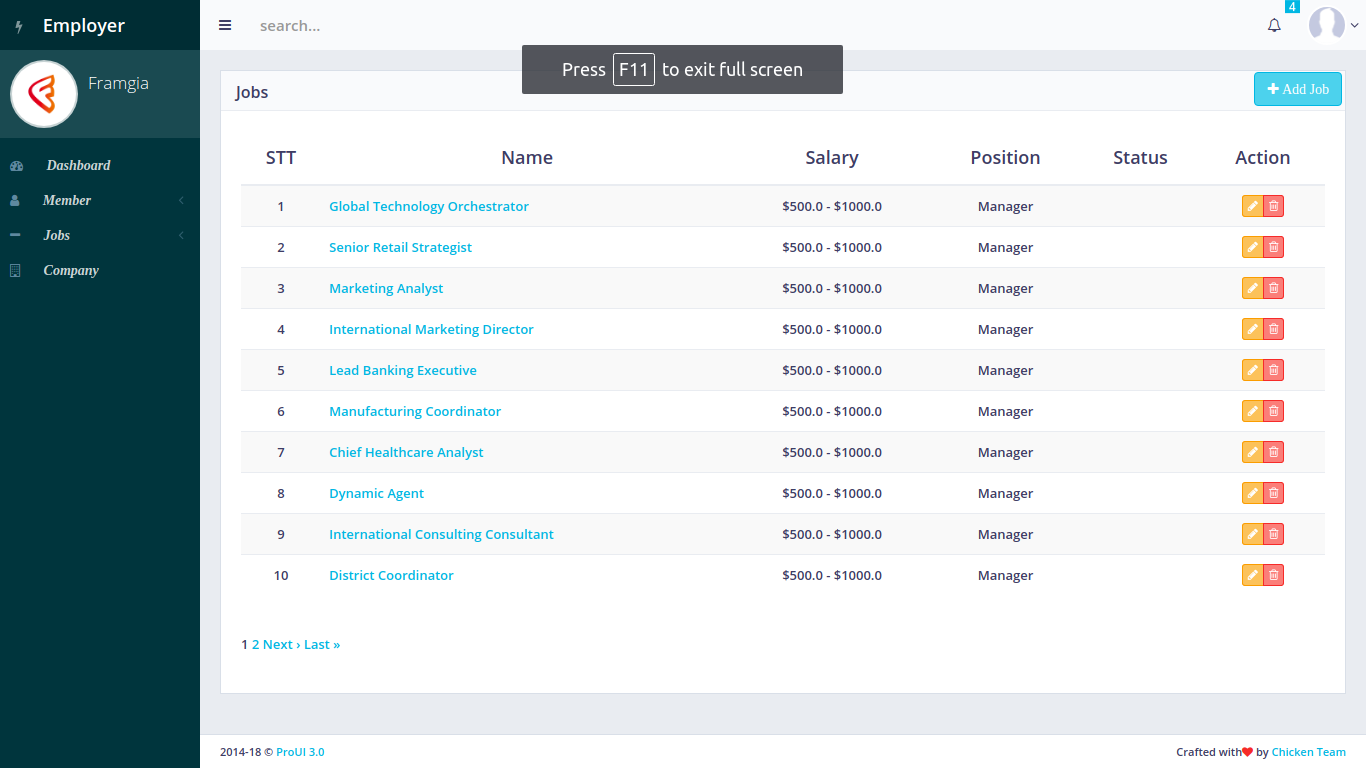
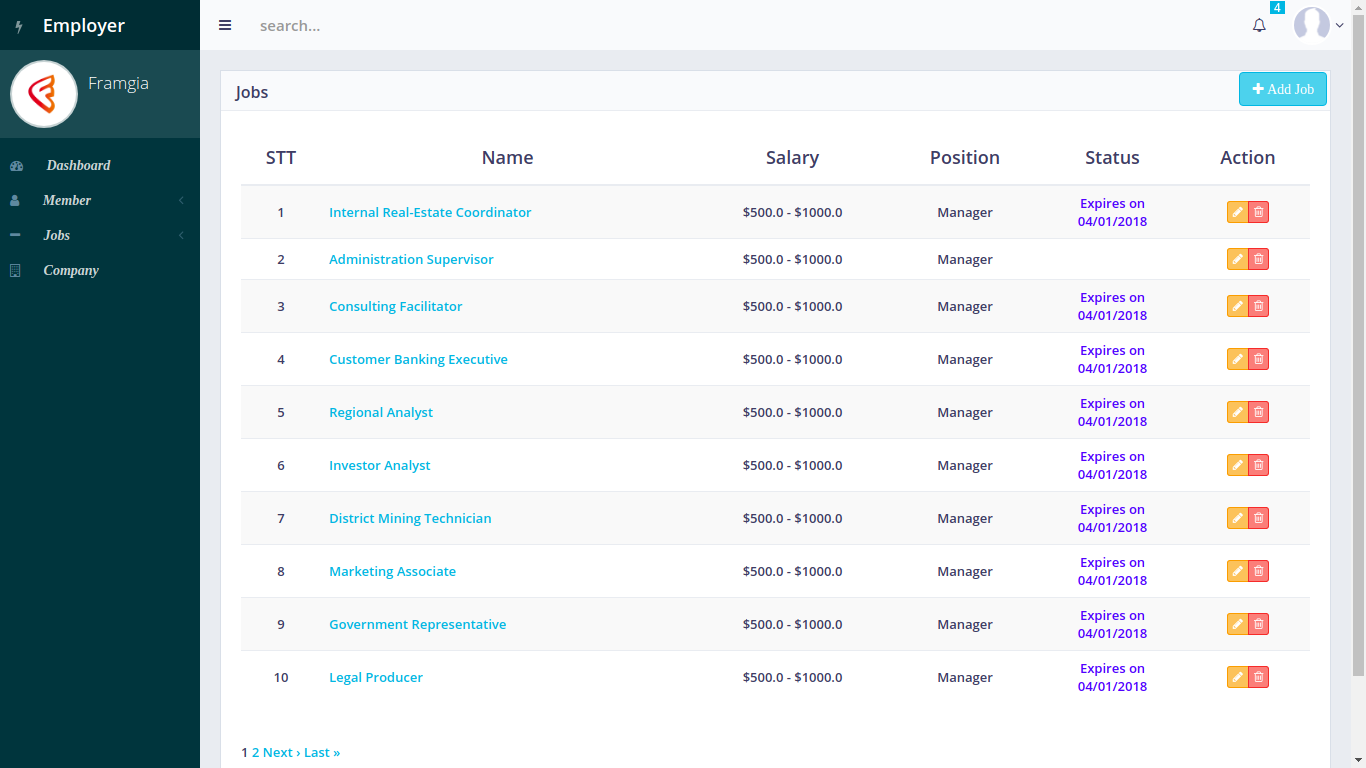
finish bookmarked and applied

diff --git a/app/assets/stylesheets/custom.scss b/app/assets/stylesheets/custom.scss
@@ -654,3 +654,29 @@
 .footer-custom {
   color: $white !important;
 }
+
+.not_apply {
+  text-align: center;
+}
+
+.expires-color {
+  color: $blue;
+}
+
+.expired-color {
+  color: $red;
+}
+
+.bookmark_like-color{
+  color: $blue;
+}
+
+.col-sm-3-apply {
+  width: 25% !important;
+  float: right;
+  margin-bottom: 15px !important;
+}
+
+.all-applies {
+  clear: both;
+}

diff --git a/app/assets/stylesheets/color.scss b/app/assets/stylesheets/color.scss
@@ -41,6 +41,7 @@ $grey-light-1: rgba(0, 0, 0, 0.45);
 $white-light: #f7f7f6d6;
 $blue-light-7: #07313a;
 $blue-light-8: #0099ff ;
+$blue-light-10: rgba(20, 234, 9, 0.89);
 $black-light: #E6E6FA;
 $black-light-2: #EAEDE9;
 $blue-light-9: rgba(115, 152, 175, 0.89);

diff --git a/vendor/assets/stylesheets/companies/f-style.css b/vendor/assets/stylesheets/companies/f-style.css
@@ -589,7 +589,7 @@ form input {
 #footer {
   background: url(footer.png);
   background-size: cover;
-  padding: 60px 0 0;
+  padding: 30px 0 0;
   color: #fff;
 }
 

diff --git a/app/assets/stylesheets/profile.scss b/app/assets/stylesheets/profile.scss
@@ -25,7 +25,7 @@ input {
   background: $white-gray;
 }
 .set-default{
-  color: $origin-light;
+  color: $dark-blue;
 }
 .style-in{
 }

diff --git a/app/controllers/bookmark_likes_controller.rb b/app/controllers/bookmark_likes_controller.rb
@@ -1,10 +1,8 @@
 class BookmarkLikesController < ApplicationController
-  before_action :authenticate_user!
   load_and_authorize_resource param_method: :bookmark_like_params
-
-  def index
-    @bookmark_likes = current_user.bookmark_likes.is_bookmark.page(params[:page]).per Settings.bookmark.page
-  end
+  before_action :authenticate_user!
+  before_action :load_bookmarks, only: :index
+  before_action :load_applies, only: :index
 
   def create
     respond_to do |format|
@@ -28,6 +26,16 @@ class BookmarkLikesController < ApplicationController
   end
 
   private
+
+  def load_applies
+    @q = current_user.applies.includes(:job, :company).ransack params[:q]
+    @applies = @q.result(distinct: true).newest_apply.page(params[:page]).per(Settings.apply.page)
+  end
+
+  def load_bookmarks
+    @bookmark_likes = current_user.bookmark_likes.is_bookmark.page(params[:page])
+      .per Settings.bookmark.page
+  end
 
   def load_like
     return unless user_signed_in?

diff --git a/app/controllers/applies_controller.rb b/app/controllers/applies_controller.rb
@@ -2,8 +2,11 @@ class AppliesController < ApplicationController
   load_and_authorize_resource param_method: :apply_params
 
   def index
-    @applies = current_user.applies.includes(:job, :company).newest_apply
-      .page(params[:page]).per(Settings.apply.page)
+    respond_to do |format|
+      @q = current_user.applies.includes(:job, :company).ransack params[:q]
+      @applies = @q.result(distinct: true).newest_apply.page(params[:page]).per(Settings.apply.page).to_a.uniq
+      format.js
+    end
   end
 
   def show; end

diff --git a/app/models/user.rb b/app/models/user.rb
@@ -45,4 +45,8 @@ class User < ApplicationRecord
     return false if self.companies.last.blank?
     self.members.last.end_time.nil? && self.members.last.employer?
   end
+
+  def is_applied? job
+    self.applies.pluck(:job_id).include? job
+  end
 end

diff --git a/db/seeds.rb b/db/seeds.rb
@@ -154,6 +154,7 @@ Job.delete_all
     description: Faker::Lorem.paragraphs,
     branch_id: branch.id,
     category_id: 1
+    end_time: Date.current + 1.years
   )}
 end
 1.upto(10) do |x|
